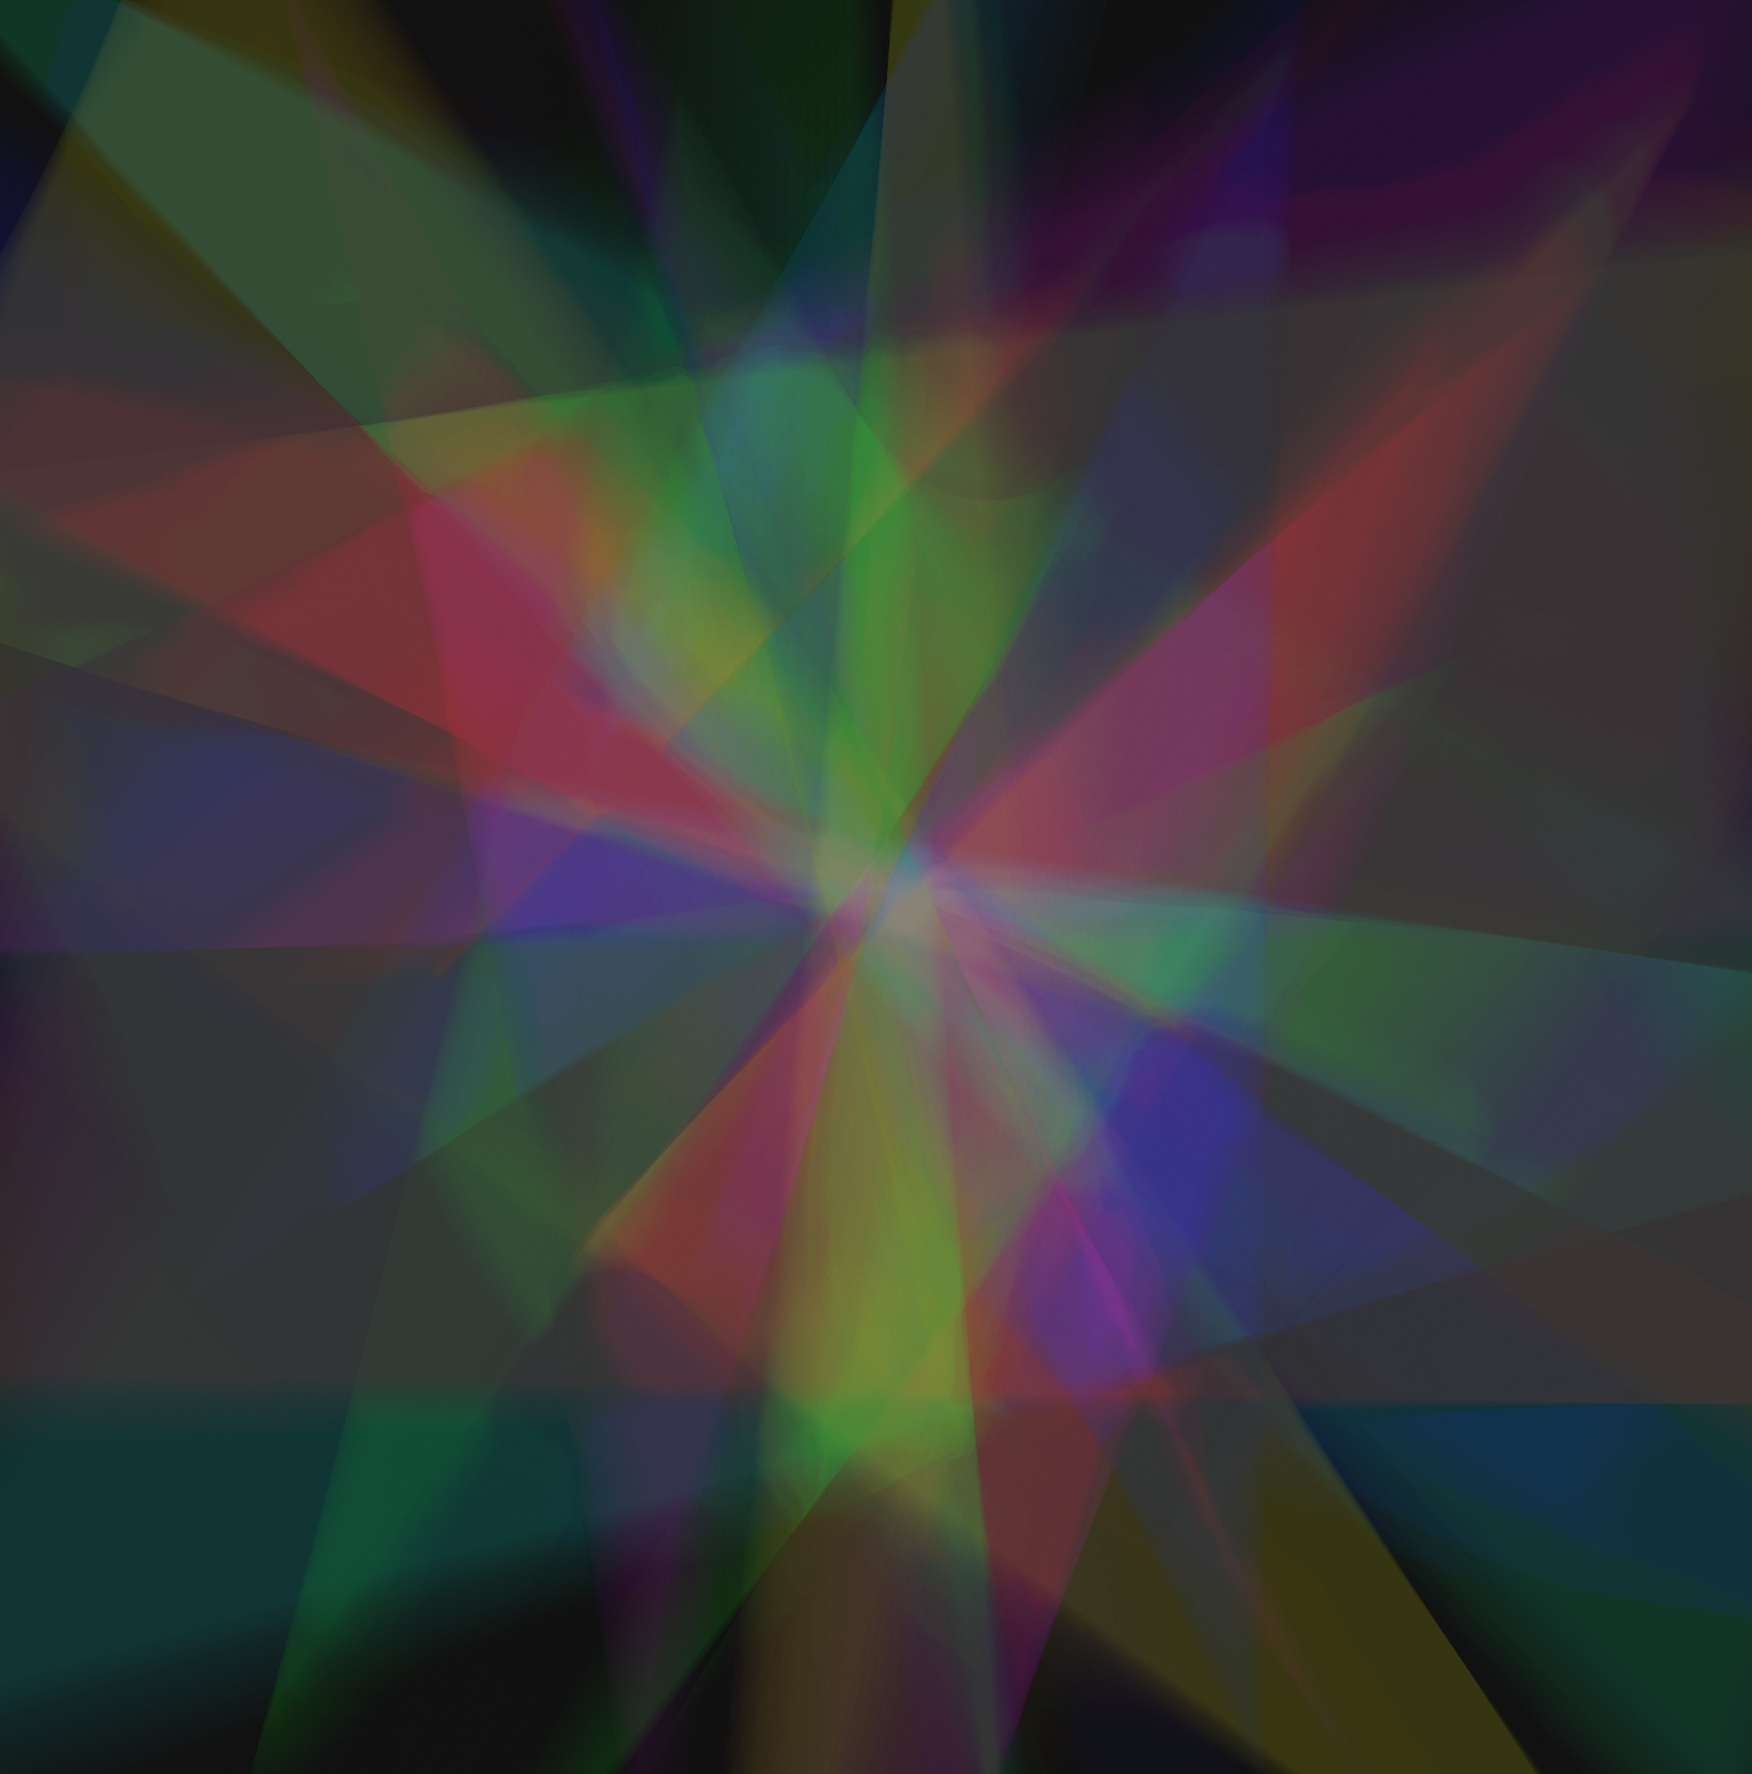
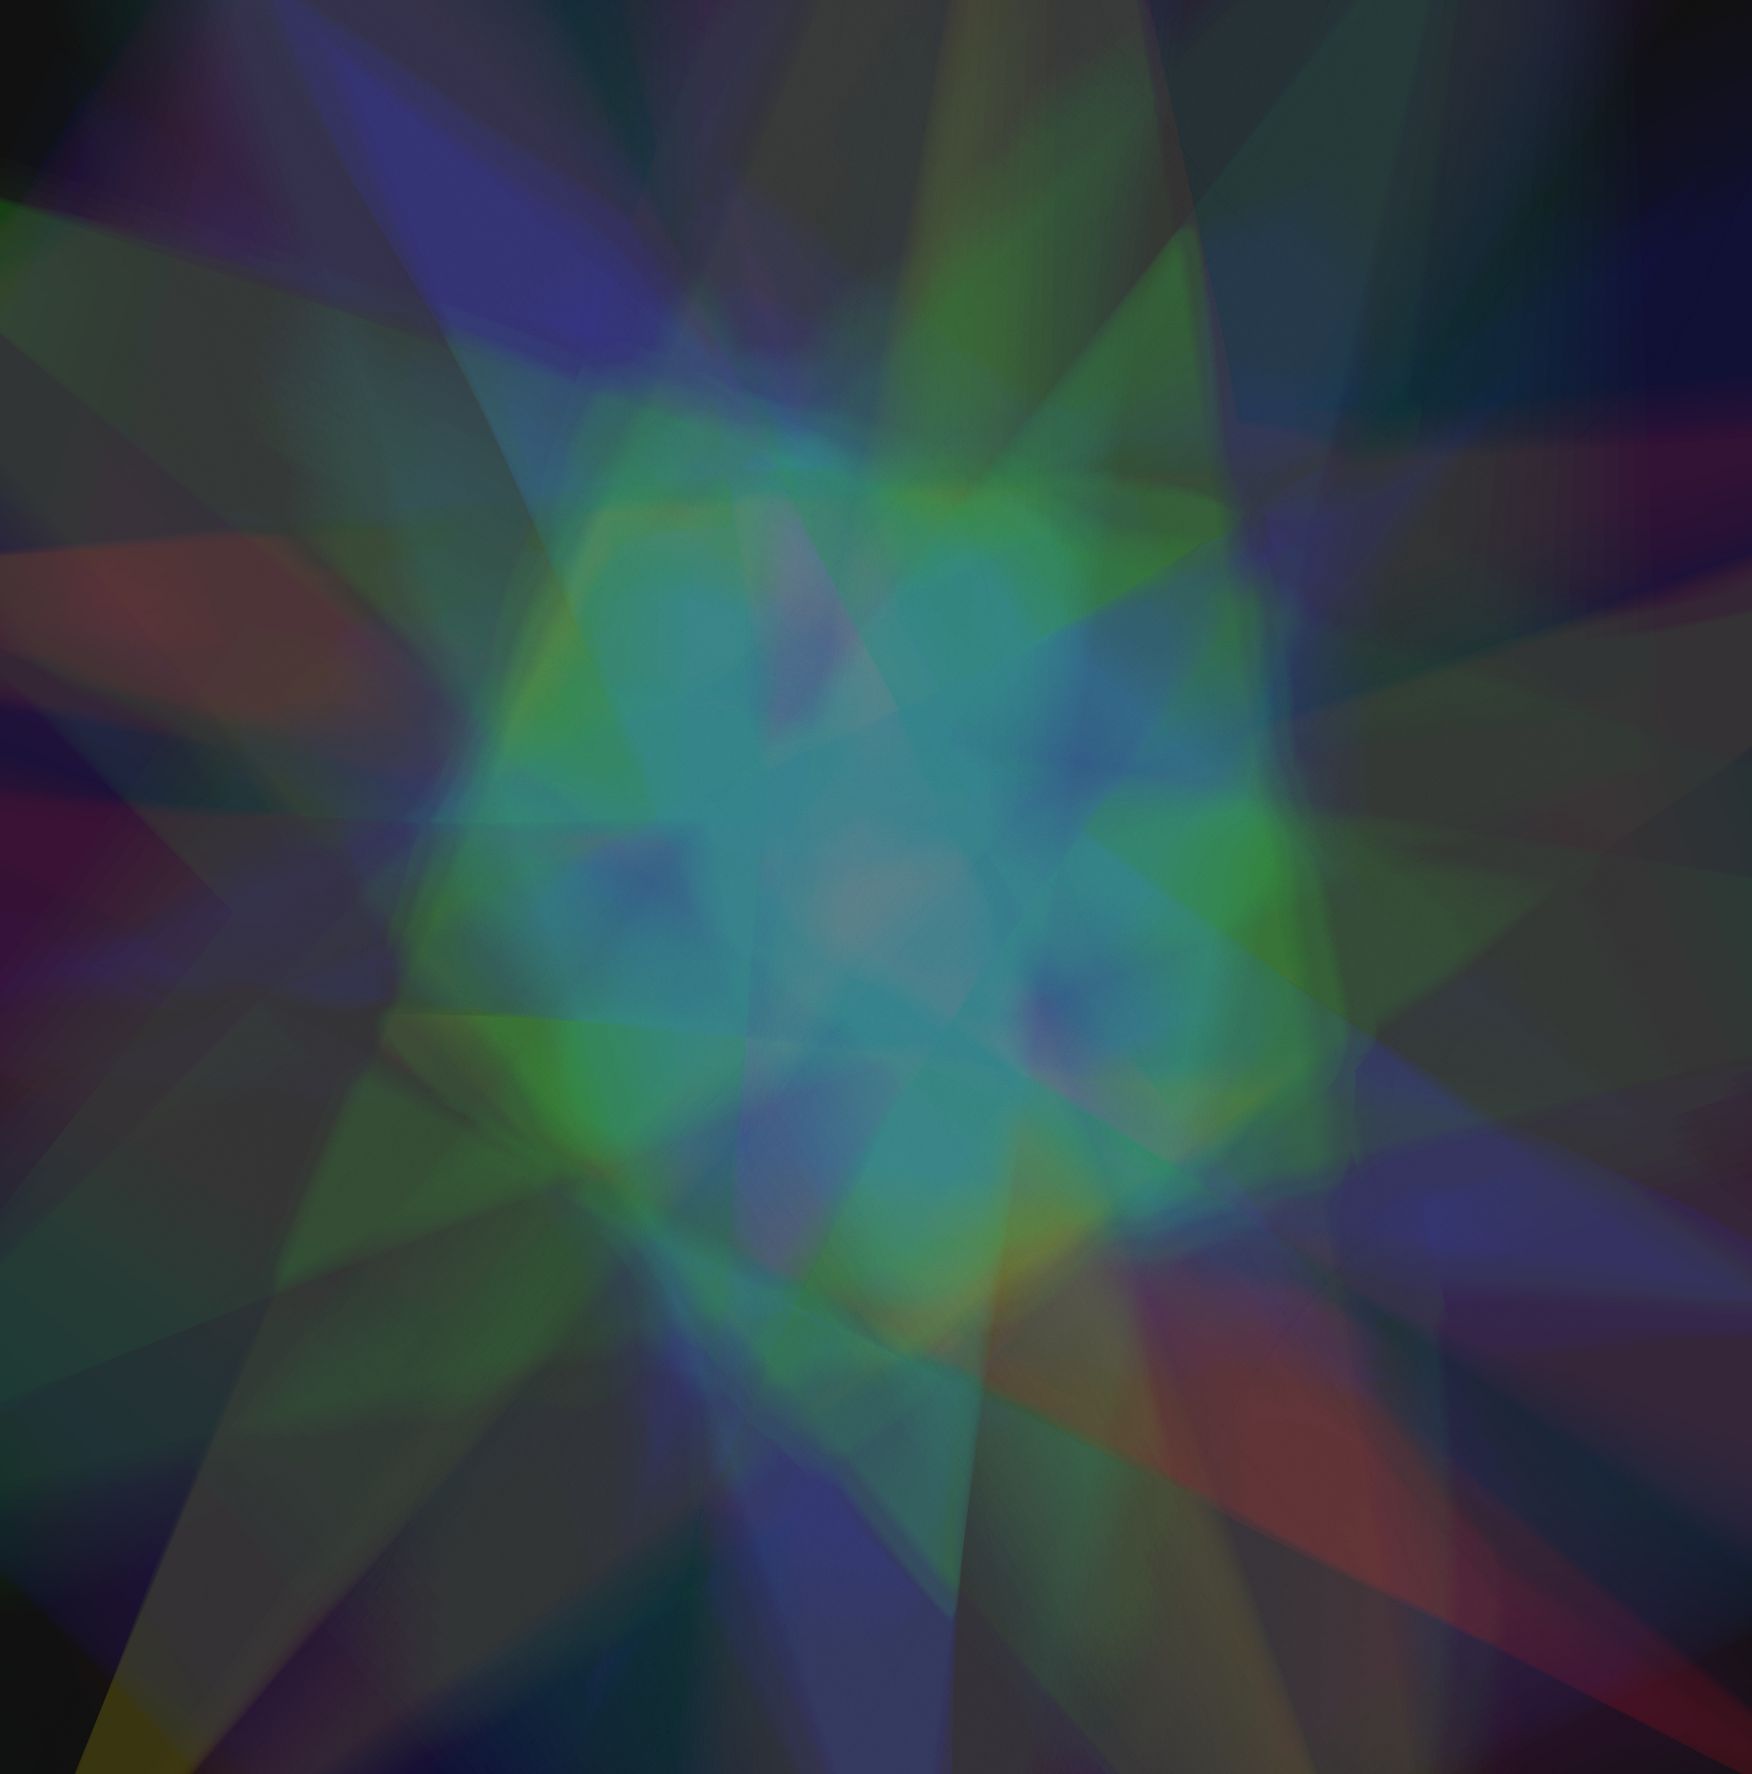
update maurer-triangles

diff --git a/maurer-triangles/sketch.js b/maurer-triangles/sketch.js
@@ -10,12 +10,12 @@ function setup() {
   i = 0;
   j = 0;
   p = PI;
-  r = max(width, height) * 0.85;
+  r = max(width, height) * 1;
 }
 
 function draw() {
   translate(width / 2, height / 2);
-  background(0, 0.05);
+  background(0, 0.03);
   for (let w = 0; w < numTriangles; w++) {
     t = i + w;
     let p1 = maurer(t, n, d, r);
